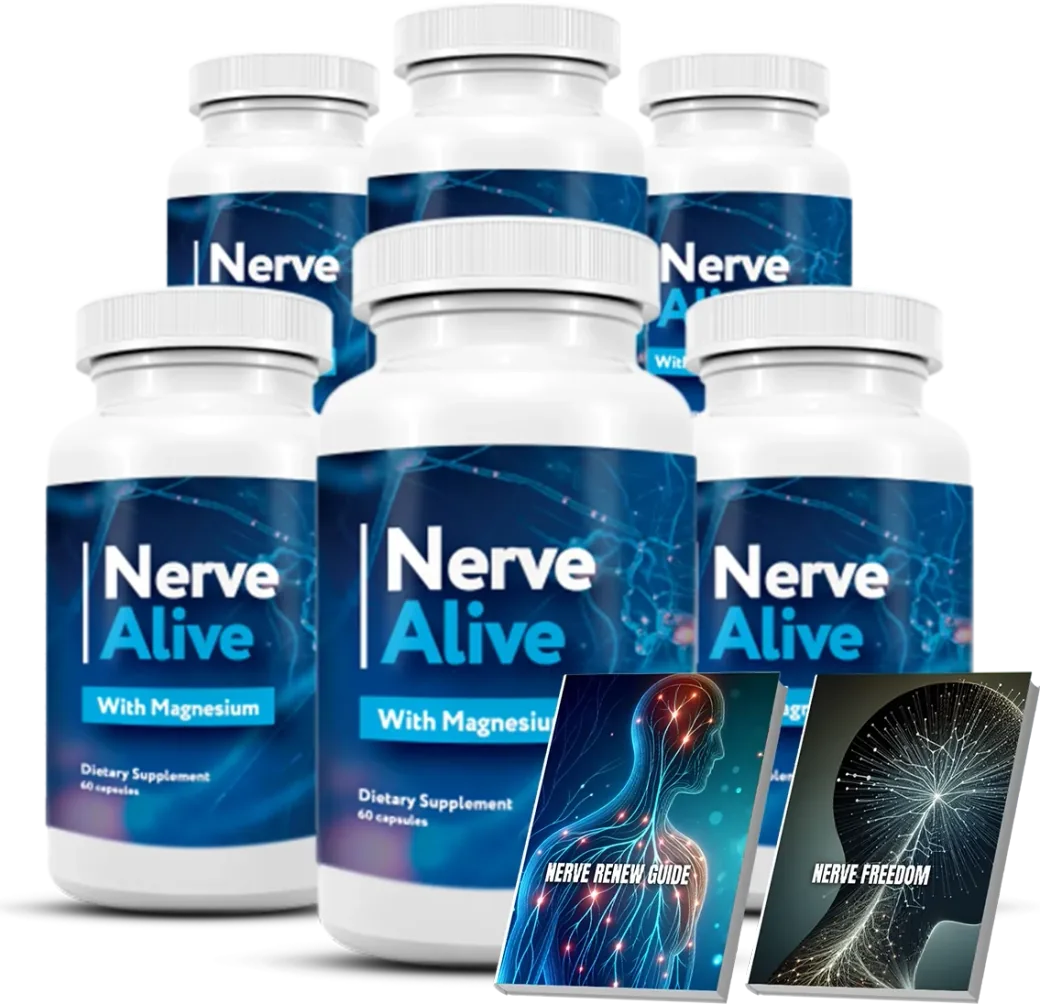
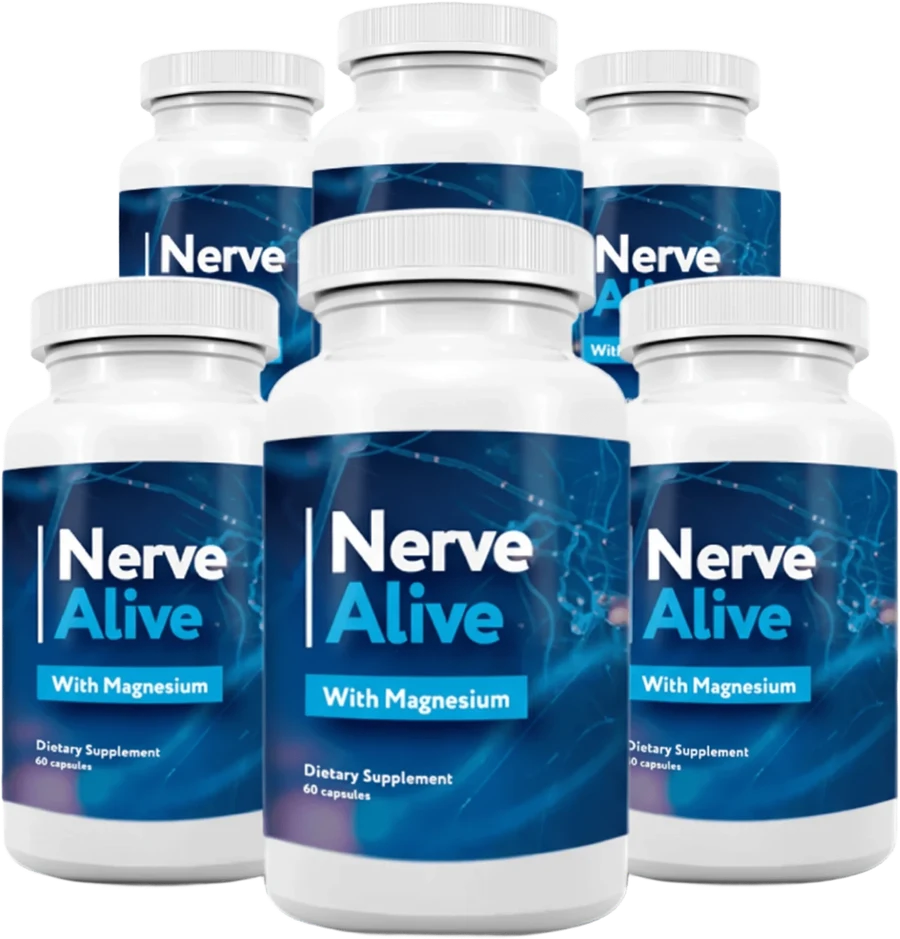
nervealive: clean 6-bottle hero, sized like the others
The old hero had the two bonus e-book mockups composited into the
pack shot, which reads as a promotion rather than as the product.
The new art is the bottles alone and arrived with its own alpha, so
nothing was cut out — only trimmed.

It also fixes the odd one out on size. Nerve Alive was filling the
hero column, which put its bottles at 445px against breathizen's
409. It is now sized explicitly, like /audifort and /klaronail:
409px desktop, 249px mobile.

Stored at 900x939 from 1848x1928 of content, so 2.30x density on
desktop and 3.77x on mobile. The /reviews card picks the same file
up automatically.

diff --git a/public/nervealive/index.html b/public/nervealive/index.html
@@ -310,8 +310,8 @@ header nav a:hover{color:var(--blue)}
 .checks li{padding-left:32px;position:relative;font-weight:700;color:#fff}
 .checks li::before{content:"✓";position:absolute;left:0;top:1px;width:22px;height:22px;border-radius:50%;background:var(--y1);color:#000;font-size:.8rem;display:flex;align-items:center;justify-content:center;font-weight:900}
 .hero .micro{color:#AFCDE6;margin-top:12px}
-.hero-img img{filter:drop-shadow(0 18px 30px rgba(0,0,0,.4))}
-@media(max-width:880px){.hero .wrap{grid-template-columns:1fr;gap:18px}.hero-img{order:-1;max-width:280px;margin:0 auto}}
+.hero-img img{width:392px;max-width:100%;margin-left:auto;margin-right:auto;filter:drop-shadow(0 18px 30px rgba(0,0,0,.4))}
+@media(max-width:880px){.hero .wrap{grid-template-columns:1fr;gap:18px}.hero-img{order:-1;max-width:239px;margin:0 auto}}
 
 .trust{background:var(--blue);color:#fff;font-weight:700;font-size:.9rem}
 .trust .wrap{display:flex;flex-wrap:wrap;justify-content:center;gap:10px 30px;padding:13px 20px}
@@ -493,7 +493,7 @@ footer a{color:#D3E6F6}
       <p class="micro byline">By <span>The Truth Review Editorial Team</span> · Updated <time datetime="2026-11-26">November 26, 2026</time></p>
     </div>
     <div class="hero-img">
-      <a href="https://mwebtracepoint.com/11330/759/6/?#buy" rel="sponsored nofollow noopener" target="_blank" aria-label="Order Nerve Alive"><img src="/nervealive/images/nervealive-hero.webp" alt="Nerve Alive nerve support capsules, 6-bottle package" width="1040" height="1004" sizes="(max-width:880px) 280px, 460px" fetchpriority="high" loading="eager" decoding="async"></a>
+      <a href="https://mwebtracepoint.com/11330/759/6/?#buy" rel="sponsored nofollow noopener" target="_blank" aria-label="Order Nerve Alive"><img src="/nervealive/images/nervealive-hero.webp" alt="Nerve Alive nerve support capsules, 6-bottle package" width="900" height="939" sizes="(max-width:880px) 239px, 392px" fetchpriority="high" loading="eager" decoding="async"></a>
     </div>
   </div>
 </section>
